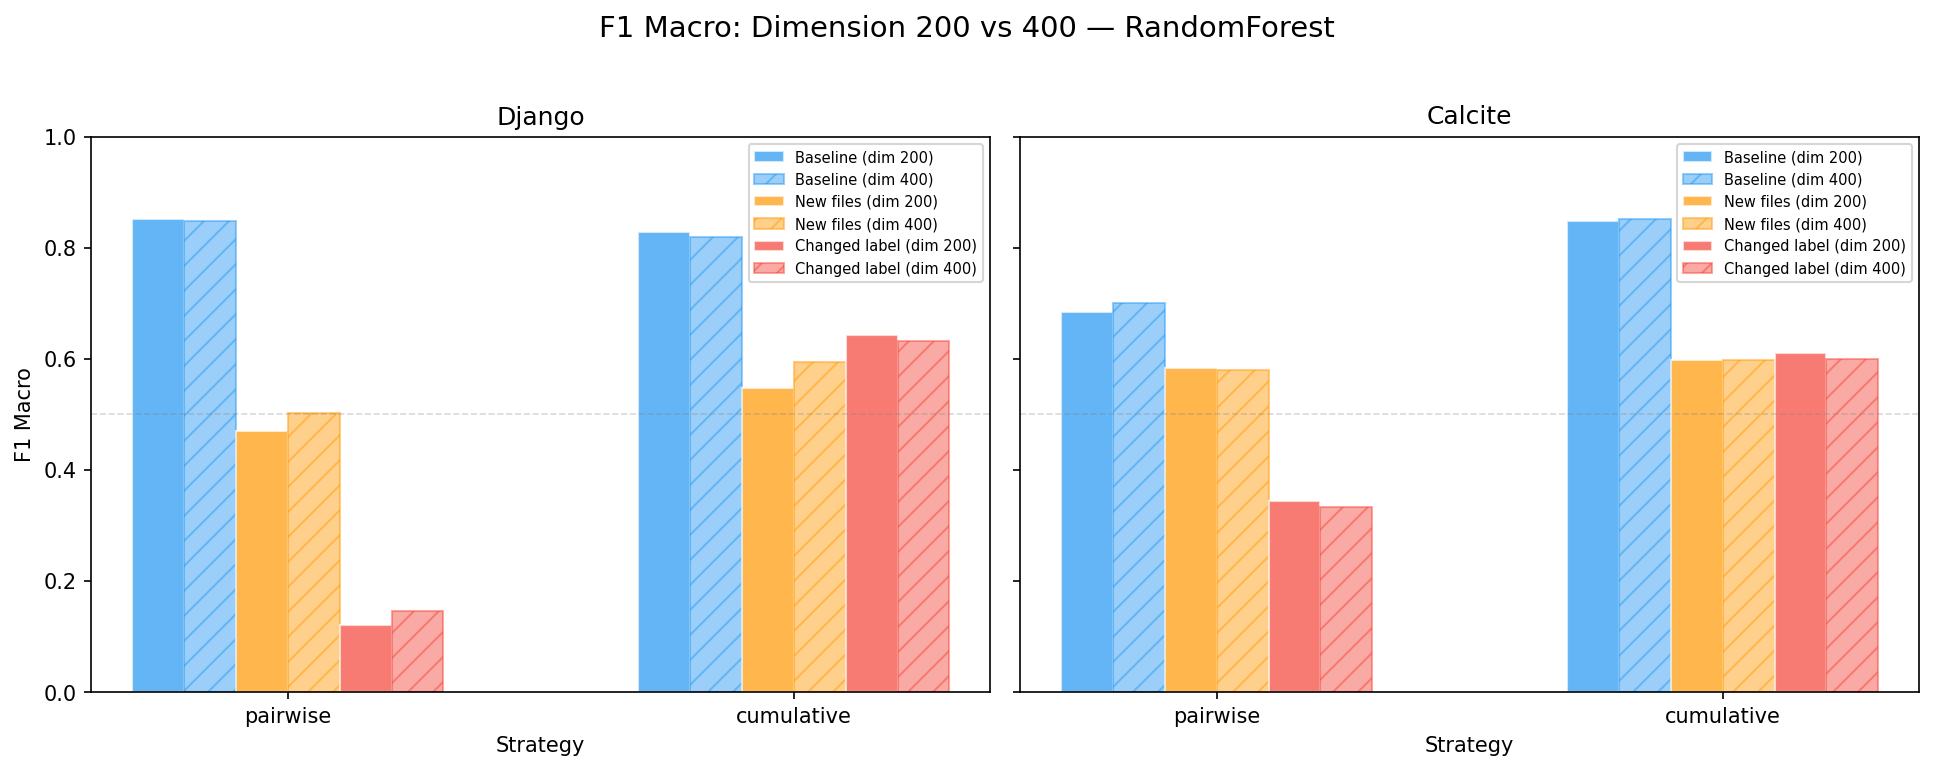
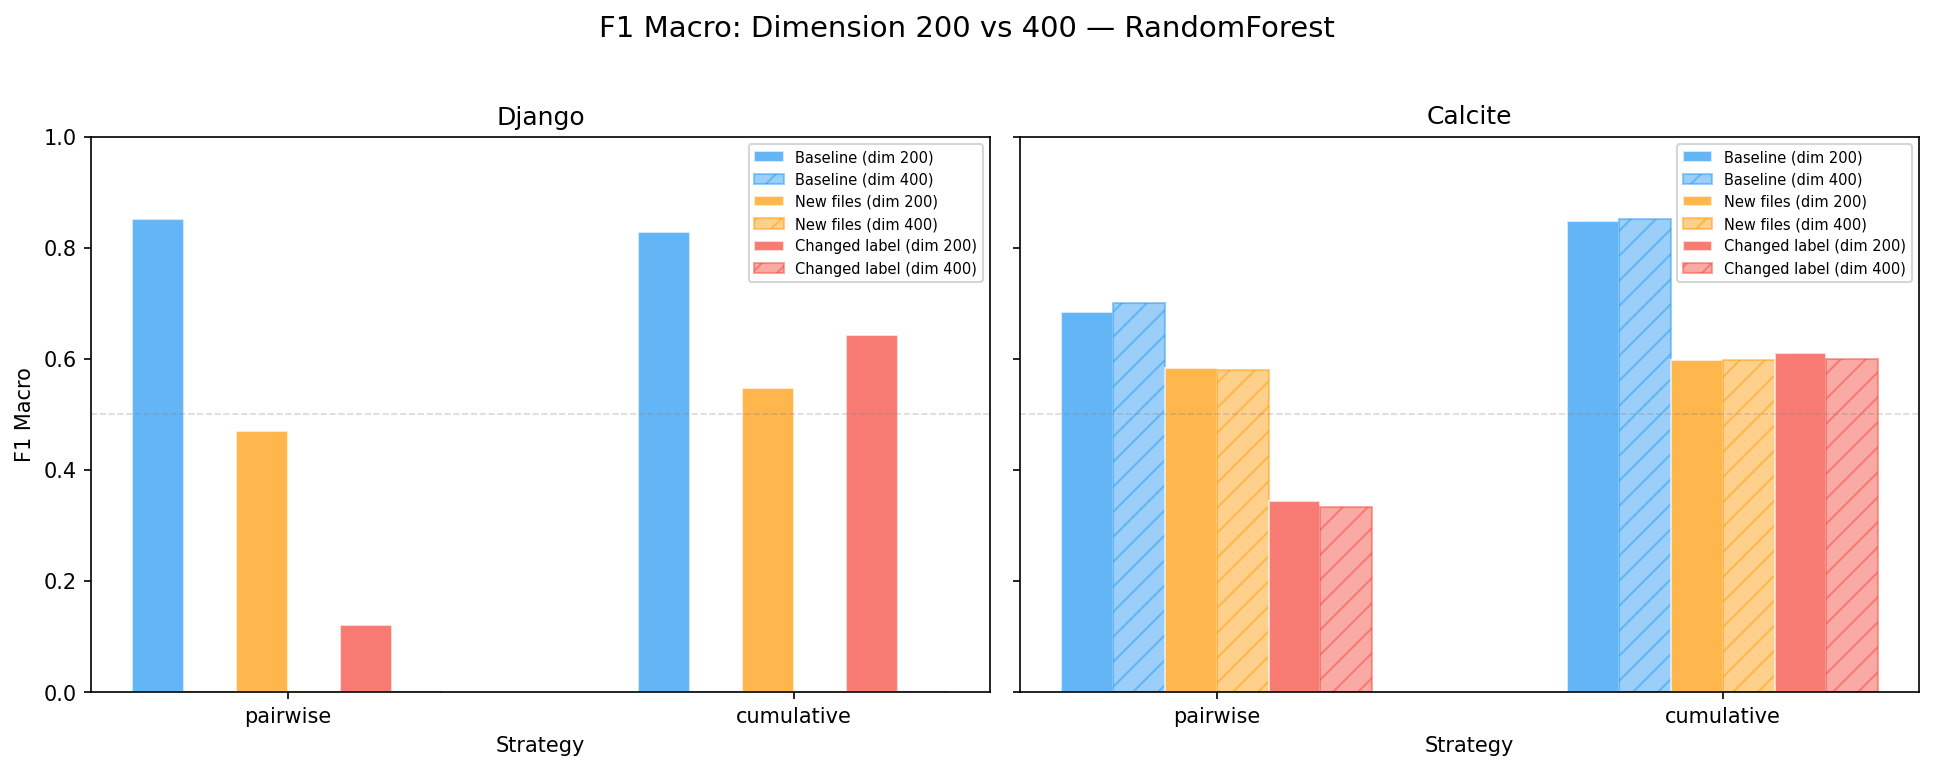
fix: use dim 200 as primary for both projects in plots

Changed region(s): [[0.3413, 0.3117, 0.4964, 0.9039], [0.0931, 0.2805, 0.2482, 0.9039]]

diff --git a/src/plot_subset_results.py b/src/plot_subset_results.py
@@ -24,8 +24,8 @@ import pandas as pd
 
 STRATEGY_DISPLAY = {"pairwise": "pairwise", "cumulative-fresh": "cumulative"}
 
-# Primary dimensions: Django=400, Calcite=200
-PRIMARY_DIM = {"django": "400", "calcite": "200"}
+# Primary dimension for both projects
+PRIMARY_DIM = {"django": "200", "calcite": "200"}
 
 SUBSET_COLORS = {
     "baseline": "#2196F3",
